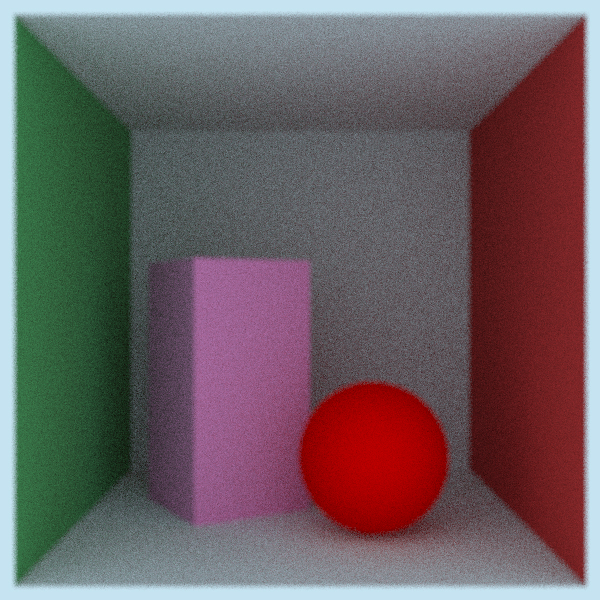
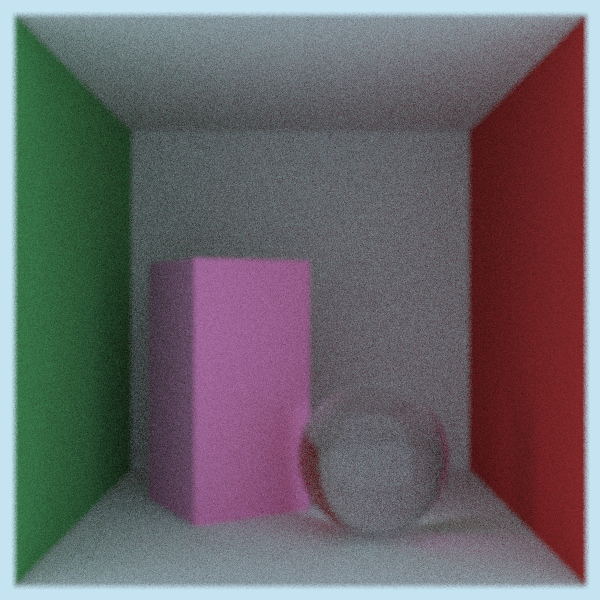
add

diff --git a/FullRayTracing/FullRayTracing/scenes/Scene.cpp b/FullRayTracing/FullRayTracing/scenes/Scene.cpp
@@ -6,6 +6,8 @@
 #include "../shapes/XY_Rect.h"
 #include "../shapes/Rotate_y.h"
 #include "../shapes/Translate.h"
+#include "../materials/Dielectric.h"
+#include "../materials/Metal.h"
 
 bool Scene::hit(const Ray& r, hit_record& rec, float t_min, float t_max) const
 {
@@ -46,7 +48,8 @@ bool Scene::bounding_box(float time0, float time1, AABB& output_box) const
 void Scene::initializeScene()
 {
 	
-	std::shared_ptr<Lambertian> sphere_mat(make_shared<Lambertian>(Vector3D(1.0, 0.0, 0.0)));
+	std::shared_ptr<Dielectric> sphere_dielectric_mat(make_shared<Dielectric>(1.5));
+	std::shared_ptr<Metal> sphere_metal_mat(make_shared<Metal>(Vector3D(0.8, 0.6, 0.2), 0.0));
 	
 	std::shared_ptr<Lambertian> red_mat(make_shared<Lambertian>(Vector3D(0.65, 0.05, 0.05)));
 	std::shared_ptr<Lambertian> green_mat(make_shared<Lambertian>(Vector3D(0.12, 0.45, 0.15)));
@@ -57,10 +60,12 @@ void Scene::initializeScene()
 	box = make_shared<Rotate_y>(box, 30);
 	box = make_shared<Translate>(box, Vector3D(265, 0, 295));
 
-	std::shared_ptr<Object> first_sphere = make_shared<Sphere>(Vector3D(190, 90, 190), 90.0, sphere_mat);
-	
+	std::shared_ptr<Object> first_sphere = make_shared<Sphere>(Vector3D(190, 90, 190), 90.0, sphere_dielectric_mat);
+	std::shared_ptr<Object> second_sphere = make_shared<Sphere>(Vector3D(300, 90, 100), 90.0, sphere_metal_mat);
+
 	this->add(box);
 	this->add(first_sphere);
+	this->add(second_sphere);
 
 	this->add(make_shared<YZ_Rect>(0, 555, 0, 555, 555, green_mat));
 	this->add(make_shared<YZ_Rect>(0, 555, 0, 555, 0, red_mat));

diff --git a/FullRayTracing/FullRayTracing/main.cpp b/FullRayTracing/FullRayTracing/main.cpp
@@ -10,7 +10,7 @@
 
 int main()
 {
-	const char* filename = "../pbrt/two.jpg";
+	const char* filename = "../pbrt/three.jpg";
 
 	int width = 600;
 	int height = 600;
